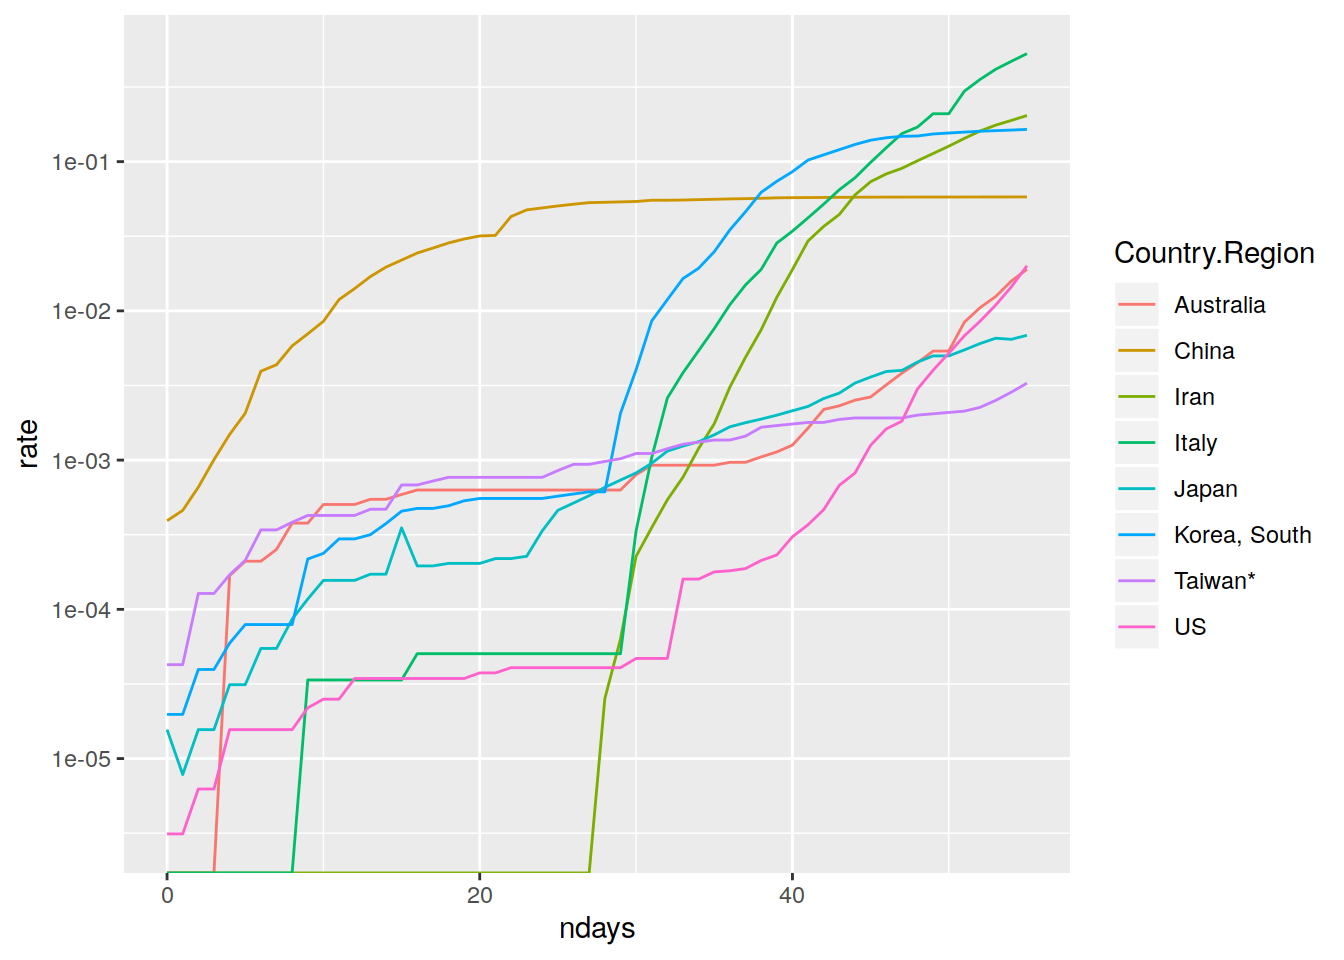
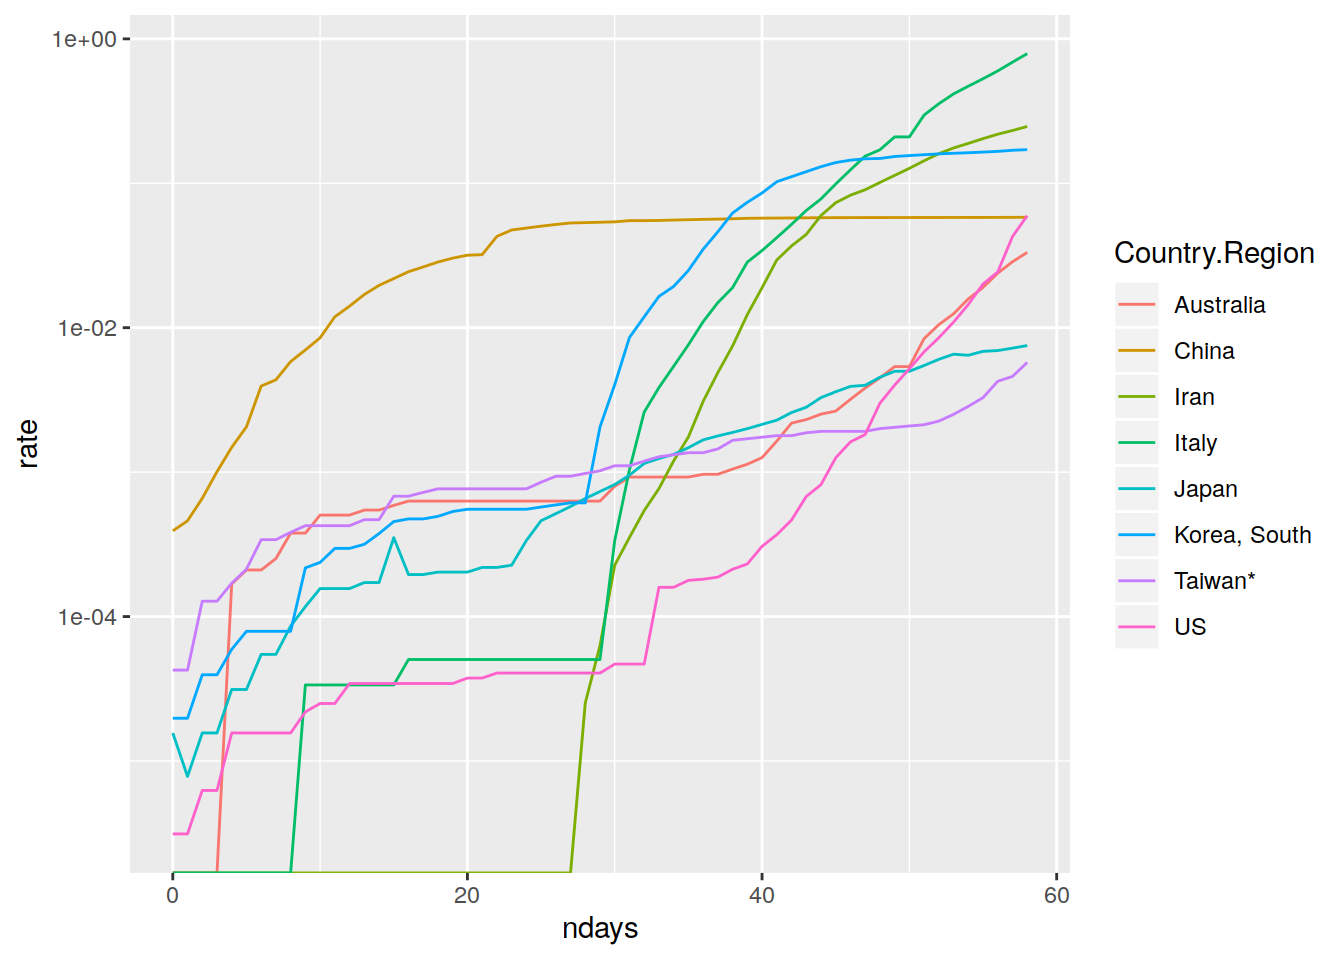
Build site.

diff --git a/docs/basic_stats.html b/docs/basic_stats.html
@@ -406,7 +406,7 @@ div.section {
 <div class="tab-content">
 <div id="summary" class="tab-pane fade in active">
 <p>
-<strong>Last updated:</strong> 2020-03-19
+<strong>Last updated:</strong> 2020-03-21
 </p>
 <p>
 <strong>Checks:</strong> <span class="glyphicon glyphicon-ok text-success" aria-hidden="true"></span> 7 <span class="glyphicon glyphicon-exclamation-sign text-danger" aria-hidden="true"></span> 0
@@ -497,18 +497,15 @@ This reproducible <a href="http://rmarkdown.rstudio.com">R Markdown</a> analysis
 <div class="panel panel-default">
 <div class="panel-heading">
 <p class="panel-title">
-<a data-toggle="collapse" data-parent="#workflowr-checks" href="#strongRepositoryversionstrongahrefhttpsgithubcomdewollercovid19treef69b24e586893ebd327a886ec375f7bbf102a6a7targetblankf69b24ea"> <span class="glyphicon glyphicon-ok text-success" aria-hidden="true"></span> <strong>Repository version:</strong> <a href="https://github.com/dewoller/covid-19/tree/f69b24e586893ebd327a886ec375f7bbf102a6a7" target="_blank">f69b24e</a> </a>
+<a data-toggle="collapse" data-parent="#workflowr-checks" href="#strongRepositoryversionstrongahrefhttpsgithubcomdewollercovid19tree57998bcbeebf002bd5a8992684488a3b35481eb6targetblank57998bca"> <span class="glyphicon glyphicon-ok text-success" aria-hidden="true"></span> <strong>Repository version:</strong> <a href="https://github.com/dewoller/covid-19/tree/57998bcbeebf002bd5a8992684488a3b35481eb6" target="_blank">57998bc</a> </a>
 </p>
 </div>
[2 lines of base64/hex data omitted]
 <div class="panel-body">
 <p>
 Great! You are using Git for version control. Tracking code development and connecting the code version to the results is critical for reproducibility. The version displayed above was the version of the Git repository at the time these results were generated. <br><br> Note that you need to be careful to ensure that all relevant files for the analysis have been committed to Git prior to generating the results (you can use <code>wflow_publish</code> or <code>wflow_git_commit</code>). workflowr only checks the R Markdown file, but you know if there are other scripts or data files that it depends on. Below is the status of the Git repository when the results were generated:
 </p>
 <pre><code>
-Ignored files:
-    Ignored:    analysis/figure/
-
 Unstaged changes:
     Modified:   analysis/hospital_beds.Rmd
 
@@ -549,6 +546,40 @@ Message
 </tr>
 </thead>
 <tbody>
+<tr>
+<td>
+Rmd
+</td>
+<td>
+<a href="https://github.com/dewoller/covid-19/blob/57998bcbeebf002bd5a8992684488a3b35481eb6/analysis/basic_stats.Rmd" target="_blank">57998bc</a>
+</td>
+<td>
+Dennis Wollersheim
+</td>
+<td>
+2020-03-21
+</td>
+<td>
+wflow_publish(“analysis/basic_stats.Rmd”)
+</td>
+</tr>
+<tr>
+<td>
+html
+</td>
+<td>
+<a href="https://rawcdn.githack.com/dewoller/covid-19/6a38af6204ea1420605977087b2243be3180b5ee/docs/basic_stats.html" target="_blank">6a38af6</a>
+</td>
+<td>
+Dennis Wollersheim
+</td>
+<td>
+2020-03-19
+</td>
+<td>
+Build site.
+</td>
+</tr>
 <tr>
 <td>
 Rmd
@@ -969,6 +1000,17 @@ Date
 <tbody>
 <tr>
 <td>
+<a href="https://github.com/dewoller/covid-19/blob/6a38af6204ea1420605977087b2243be3180b5ee/docs/figure/basic_stats.Rmd/unnamed-chunk-1-1.png" target="_blank">6a38af6</a>
+</td>
+<td>
+Dennis Wollersheim
+</td>
+<td>
+2020-03-19
+</td>
+</tr>
+<tr>
+<td>
 <a href="https://github.com/dewoller/covid-19/blob/4ed0138dc9c601214721e28e2755bd20920ec716/docs/figure/basic_stats.Rmd/unnamed-chunk-1-1.png" target="_blank">4ed0138</a>
 </td>
 <td>
@@ -1067,6 +1109,17 @@ Date
 </tr>
 </thead>
 <tbody>
+<tr>
+<td>
+<a href="https://github.com/dewoller/covid-19/blob/6a38af6204ea1420605977087b2243be3180b5ee/docs/figure/basic_stats.Rmd/unnamed-chunk-2-1.png" target="_blank">6a38af6</a>
+</td>
+<td>
+Dennis Wollersheim
+</td>
+<td>
+2020-03-19
+</td>
+</tr>
 <tr>
 <td>
 <a href="https://github.com/dewoller/covid-19/blob/4ed0138dc9c601214721e28e2755bd20920ec716/docs/figure/basic_stats.Rmd/unnamed-chunk-2-1.png" target="_blank">4ed0138</a>
@@ -1176,6 +1229,17 @@ Date
 <tbody>
 <tr>
 <td>
+<a href="https://github.com/dewoller/covid-19/blob/6a38af6204ea1420605977087b2243be3180b5ee/docs/figure/basic_stats.Rmd/unnamed-chunk-3-1.png" target="_blank">6a38af6</a>
+</td>
+<td>
+Dennis Wollersheim
+</td>
+<td>
+2020-03-19
+</td>
+</tr>
+<tr>
+<td>
 <a href="https://github.com/dewoller/covid-19/blob/4ed0138dc9c601214721e28e2755bd20920ec716/docs/figure/basic_stats.Rmd/unnamed-chunk-3-1.png" target="_blank">4ed0138</a>
 </td>
 <td>
@@ -1281,6 +1345,17 @@ Date
 <tbody>
 <tr>
 <td>
+<a href="https://github.com/dewoller/covid-19/blob/6a38af6204ea1420605977087b2243be3180b5ee/docs/figure/basic_stats.Rmd/unnamed-chunk-4-1.png" target="_blank">6a38af6</a>
+</td>
+<td>
+Dennis Wollersheim
+</td>
+<td>
+2020-03-19
+</td>
+</tr>
+<tr>
+<td>
 <a href="https://github.com/dewoller/covid-19/blob/ea89c631cdc884cf133ced6c440c896b3e7e37c5/docs/figure/basic_stats.Rmd/unnamed-chunk-4-1.png" target="_blank">ea89c63</a>
 </td>
 <td>
@@ -1372,21 +1447,25 @@ Dennis Wollersheim
 </div>
 </div>
 </div>
-<div id="new-cases-population-rate-by-week" class="section level1">
-<h1>New cases population rate by week</h1>
+<div id="total-cumulative-deaths-as-a-population-rate" class="section level1">
+<h1>Total cumulative deaths as a population rate</h1>
+<ul>
+<li>greater than 200 cases, or Singapore or Australia</li>
+</ul>
+<p>Note, Japan had -1 cases on day 2</p>
 <pre class="r"><code>coronavirus %&gt;% 
   inner_join(pop, by=&#39;name&#39; ) %&gt;% 
-  filter( type==&#39;confirmed&#39; ) %&gt;%
+  filter( type==&#39;death&#39; ) %&gt;%
   group_by( Country.Region ) %&gt;%
-  mutate(week = week(date) ) %&gt;%
-  group_by( Country.Region, week ) %&gt;%
+  mutate(ndays = date-min(date) ) %&gt;%
+  group_by( Country.Region, ndays ) %&gt;%
   summarise( cases=sum(cases), population = min(`2015`)) %&gt;%
   ungroup() %&gt;%
   group_by( Country.Region) %&gt;%
-  # filter( Country.Region==&#39;Japan&#39; ) %&gt;%
   filter( Country.Region %in% top_10_countries) %&gt;%
-  mutate( rate = cases  / population  ) %&gt;%
-  ggplot(aes( week, rate, color=Country.Region)) +
+  arrange( ndays, .by_group=TRUE) %&gt;%
+  mutate( cumcases = cumsum(cases), rate = cumsum(cases ) / population  ) %&gt;%
+  ggplot(aes( ndays, rate, color=Country.Region)) +
   geom_line() +
   scale_y_log10() +
   scale_x_continuous()</code></pre>
@@ -1413,6 +1492,17 @@ Date
 </tr>
 </thead>
 <tbody>
+<tr>
+<td>
+<a href="https://github.com/dewoller/covid-19/blob/6a38af6204ea1420605977087b2243be3180b5ee/docs/figure/basic_stats.Rmd/unnamed-chunk-5-1.png" target="_blank">6a38af6</a>
+</td>
+<td>
+Dennis Wollersheim
+</td>
+<td>
+2020-03-19
+</td>
+</tr>
 <tr>
 <td>
 <a href="https://github.com/dewoller/covid-19/blob/ea89c631cdc884cf133ced6c440c896b3e7e37c5/docs/figure/basic_stats.Rmd/unnamed-chunk-5-1.png" target="_blank">ea89c63</a>
@@ -1473,23 +1563,24 @@ Dennis Wollersheim
 </div>
 </div>
 </div>
-<div id="new-cases-population-rate-by-day-smoothed" class="section level1">
-<h1>New cases population rate by day, smoothed</h1>
+<div id="new-cases-population-rate-by-week" class="section level1">
+<h1>New cases population rate by week</h1>
 <pre class="r"><code>coronavirus %&gt;% 
   inner_join(pop, by=&#39;name&#39; ) %&gt;% 
   filter( type==&#39;confirmed&#39; ) %&gt;%
   group_by( Country.Region ) %&gt;%
-  group_by( Country.Region, date ) %&gt;%
+  mutate(week = week(date) ) %&gt;%
+  group_by( Country.Region, week ) %&gt;%
   summarise( cases=sum(cases), population = min(`2015`)) %&gt;%
   ungroup() %&gt;%
   group_by( Country.Region) %&gt;%
   # filter( Country.Region==&#39;Japan&#39; ) %&gt;%
   filter( Country.Region %in% top_10_countries) %&gt;%
   mutate( rate = cases  / population  ) %&gt;%
-  ggplot(aes( date, rate, color=Country.Region)) +
-  geom_smooth() +
-  scale_y_log10() </code></pre>
-<pre><code>`geom_smooth()` using method = &#39;loess&#39; and formula &#39;y ~ x&#39;</code></pre>
+  ggplot(aes( week, rate, color=Country.Region)) +
+  geom_line() +
+  scale_y_log10() +
+  scale_x_continuous()</code></pre>
 <p><img src="figure/basic_stats.Rmd/unnamed-chunk-6-1.png" width="672" style="display: block; margin: auto;" /></p>
 <p>
 <button type="button" class="btn btn-default btn-xs btn-workflowr btn-workflowr-fig" data-toggle="collapse" data-target="#fig-unnamed-chunk-6-1">
@@ -1513,6 +1604,17 @@ Date
 </tr>
 </thead>
 <tbody>
+<tr>
+<td>
+<a href="https://github.com/dewoller/covid-19/blob/6a38af6204ea1420605977087b2243be3180b5ee/docs/figure/basic_stats.Rmd/unnamed-chunk-6-1.png" target="_blank">6a38af6</a>
+</td>
+<td>
+Dennis Wollersheim
+</td>
+<td>
+2020-03-19
+</td>
+</tr>
 <tr>
 <td>
 <a href="https://github.com/dewoller/covid-19/blob/ea89c631cdc884cf133ced6c440c896b3e7e37c5/docs/figure/basic_stats.Rmd/unnamed-chunk-6-1.png" target="_blank">ea89c63</a>
@@ -1573,6 +1675,25 @@ Dennis Wollersheim
 </div>
 </div>
 </div>
+<div id="new-cases-population-rate-by-day-smoothed" class="section level1">
+<h1>New cases population rate by day, smoothed</h1>
+<pre class="r"><code>coronavirus %&gt;% 
+  inner_join(pop, by=&#39;name&#39; ) %&gt;% 
+  filter( type==&#39;confirmed&#39; ) %&gt;%
+  group_by( Country.Region ) %&gt;%
+  group_by( Country.Region, date ) %&gt;%
+  summarise( cases=sum(cases), population = min(`2015`)) %&gt;%
+  ungroup() %&gt;%
+  group_by( Country.Region) %&gt;%
+  # filter( Country.Region==&#39;Japan&#39; ) %&gt;%
+  filter( Country.Region %in% top_10_countries) %&gt;%
+  mutate( rate = cases  / population  ) %&gt;%
+  ggplot(aes( date, rate, color=Country.Region)) +
+  geom_smooth() +
+  scale_y_log10() </code></pre>
+<pre><code>`geom_smooth()` using method = &#39;loess&#39; and formula &#39;y ~ x&#39;</code></pre>
+<p><img src="figure/basic_stats.Rmd/unnamed-chunk-7-1.png" width="672" style="display: block; margin: auto;" /></p>
+</div>
 <div id="new-cases-in-latest-data" class="section level1">
 <h1># new cases in latest data</h1>
 <pre class="r"><code>coronavirus %&gt;% 
@@ -1584,21 +1705,21 @@ Dennis Wollersheim
   summarise(total_cases = sum(cases), date=max(date)) %&gt;%
   pivot_wider(names_from = type, values_from = total_cases) %&gt;%
   arrange(-confirmed)</code></pre>
-<pre><code># A tibble: 152 x 5
-# Groups:   country [152]
+<pre><code># A tibble: 162 x 5
+# Groups:   country [162]
    country        date       confirmed death recovered
    &lt;chr&gt;          &lt;date&gt;         &lt;int&gt; &lt;int&gt;     &lt;int&gt;
- 1 Italy          2020-03-17      3526   345       192
- 2 Germany        2020-03-17      1985     7         0
- 3 Spain          2020-03-17      1806   191       498
- 4 US             2020-03-17      1789    23         0
- 5 Iran           2020-03-17      1178   135       799
- 6 France         2020-03-17      1031     0         0
- 7 Switzerland    2020-03-17       500    13         0
- 8 United Kingdom 2020-03-17       409     0        32
- 9 Austria        2020-03-17       314     0        -5
-10 Netherlands    2020-03-17       294    19         0
-# … with 142 more rows</code></pre>
+ 1 Italy          2020-03-20      5986   627         0
+ 2 US             2020-03-20      5423    44         0
+ 3 Germany        2020-03-20      4528    23        67
+ 4 Spain          2020-03-20      2447   213       481
+ 5 France         2020-03-20      1779   207         0
+ 6 United Kingdom 2020-03-20      1298    40         0
+ 7 Iran           2020-03-20      1237   149      1035
+ 8 Switzerland    2020-03-20      1219    13         0
+ 9 Netherlands    2020-03-20       536    30         0
+10 Belgium        2020-03-20       462    16       -30
+# … with 152 more rows</code></pre>
 </div>
 <div id="australias-choice" class="section level1">
 <h1>Australia’s choice</h1>
@@ -1646,6 +1767,17 @@ Date
 <tbody>
 <tr>
 <td>
+<a href="https://github.com/dewoller/covid-19/blob/6a38af6204ea1420605977087b2243be3180b5ee/docs/figure/basic_stats.Rmd/selected_countries-1.png" target="_blank">6a38af6</a>
+</td>
+<td>
+Dennis Wollersheim
+</td>
+<td>
+2020-03-19
+</td>
+</tr>
+<tr>
+<td>
 <a href="https://github.com/dewoller/covid-19/blob/ea89c631cdc884cf133ced6c440c896b3e7e37c5/docs/figure/basic_stats.Rmd/selected_countries-1.png" target="_blank">ea89c63</a>
 </td>
 <td>
@@ -1667,7 +1799,54 @@ summarise(sum(cases))</code></pre>
 <pre><code># A tibble: 1 x 1
   `sum(cases)`
          &lt;int&gt;
-1           94</code></pre>
+1          121</code></pre>
+</div>
+<div id="world-wide-true-cases-overall" class="section level1">
+<h1>world wide true cases overall</h1>
+<pre class="r"><code>coronavirus %&gt;% 
+  filter( Country.Region %in% top_10_countries) %&gt;%
+  filter( type!=&#39;recovered&#39; ) %&gt;%
+  group_by( date, type ) %&gt;%
+  summarise( cases=sum(cases)) %&gt;%
+  ungroup() %&gt;%
+  group_by( type ) %&gt;%
+  arrange( date, .by_group=TRUE) %&gt;%
+  mutate( cumcases = cumsum(cases) ) %&gt;%
+  pivot_wider( id_cols=date, names_from=type, values_from=cumcases) %&gt;%
+  mutate( true_cases = true_cases( death )) %&gt;%
+  pivot_longer( cols=-date, names_to=&#39;type&#39;, values_to=&#39;cases&#39;) %&gt;%
+  mutate( ndays = date-min(date)) %&gt;%
+  ggplot(aes( ndays, cases, color=type)) +
+  geom_line() +
+  scale_y_log10() +
+  scale_x_continuous()</code></pre>
+<p><img src="figure/basic_stats.Rmd/world_wide_true_cases-1.png" width="672" style="display: block; margin: auto;" /></p>
+</div>
+<div id="world-wide-true-cases-by-country" class="section level1">
+<h1>world wide true cases by country</h1>
+<p>What is the disparity between the number of predicted cases (per number of deaths) and reported cases</p>
+<pre class="r"><code>coronavirus %&gt;% 
+  filter( Country.Region %in% top_10_countries) %&gt;%
+  filter( type!=&#39;recovered&#39; ) %&gt;%
+  group_by( Country.Region) %&gt;%
+  mutate( ndays = date-min(date)) %&gt;%
+  group_by( Country.Region, ndays, type ) %&gt;%
+  summarise( cases=sum(cases)) %&gt;%
+  group_by( Country.Region, type ) %&gt;%
+  arrange( ndays, .by_group=TRUE) %&gt;%
+  mutate( cumcases = cumsum(cases) ) %&gt;%
+  select(-cases) %&gt;%
+  pivot_wider( names_from=type, values_from=cumcases) %&gt;%
+  filter(death&gt;0) %&gt;%
+  mutate( true_cases = true_cases( death )) %&gt;%
+  mutate( disparity = confirmed / true_cases ) %&gt;%
+#  pivot_longer( cols=c(-ndays, -Country.Region), names_to=&#39;type&#39;, values_to=&#39;cases&#39;) %&gt;%
+  ggplot(aes( ndays, disparity, color=Country.Region)) +
+  geom_smooth() +
+  scale_y_log10() +
+  scale_x_continuous()</code></pre>
+<pre><code>`geom_smooth()` using method = &#39;loess&#39; and formula &#39;y ~ x&#39;</code></pre>
+<p><img src="figure/basic_stats.Rmd/world_wide_true_cases_by_country-1.png" width="672" style="display: block; margin: auto;" /></p>
 <br>
 <p>
 <button type="button" class="btn btn-default btn-workflowr btn-workflowr-sessioninfo" data-toggle="collapse" data-target="#workflowr-sessioninfo" style="display: block;">
